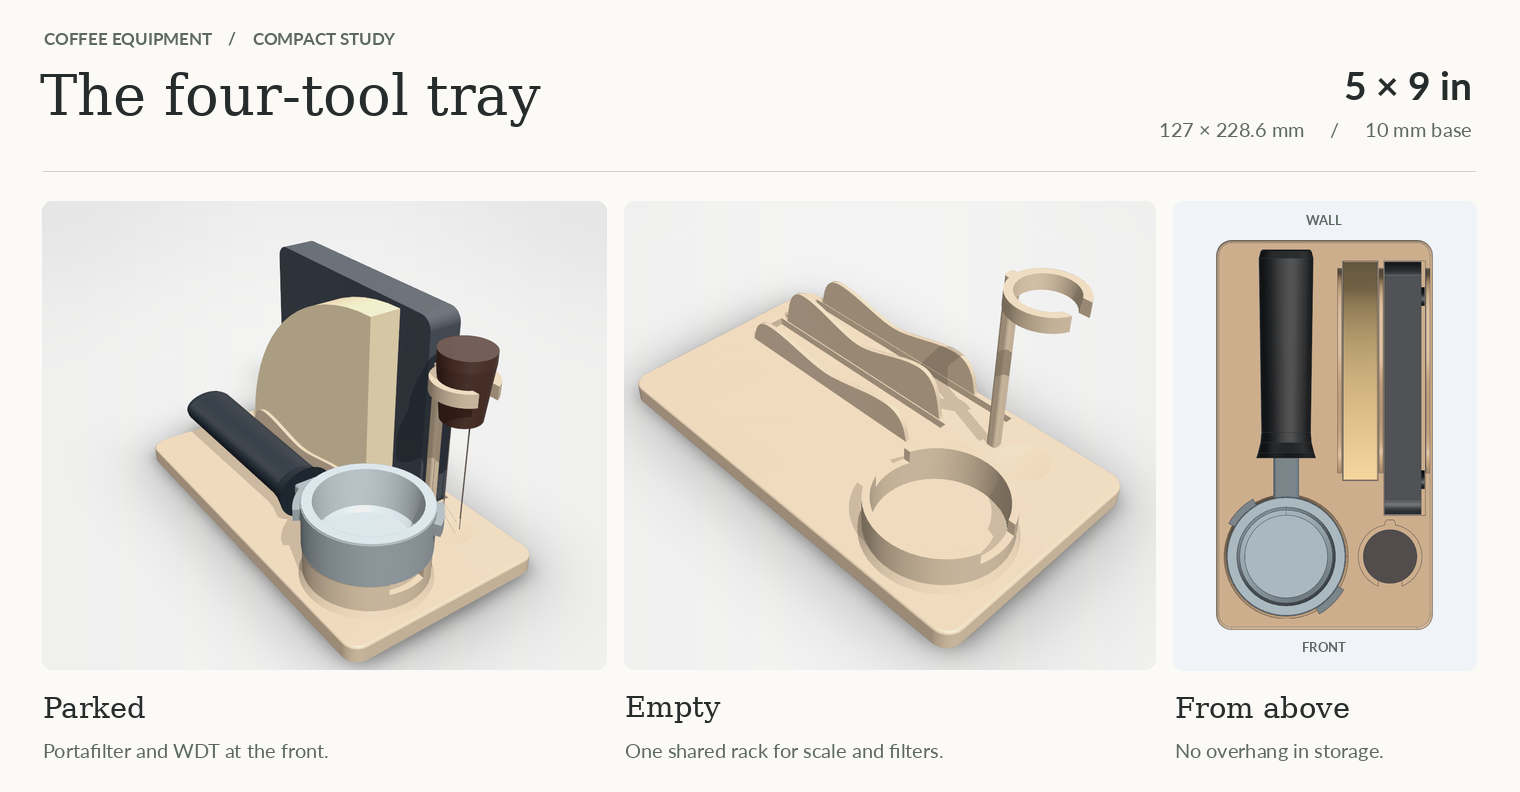
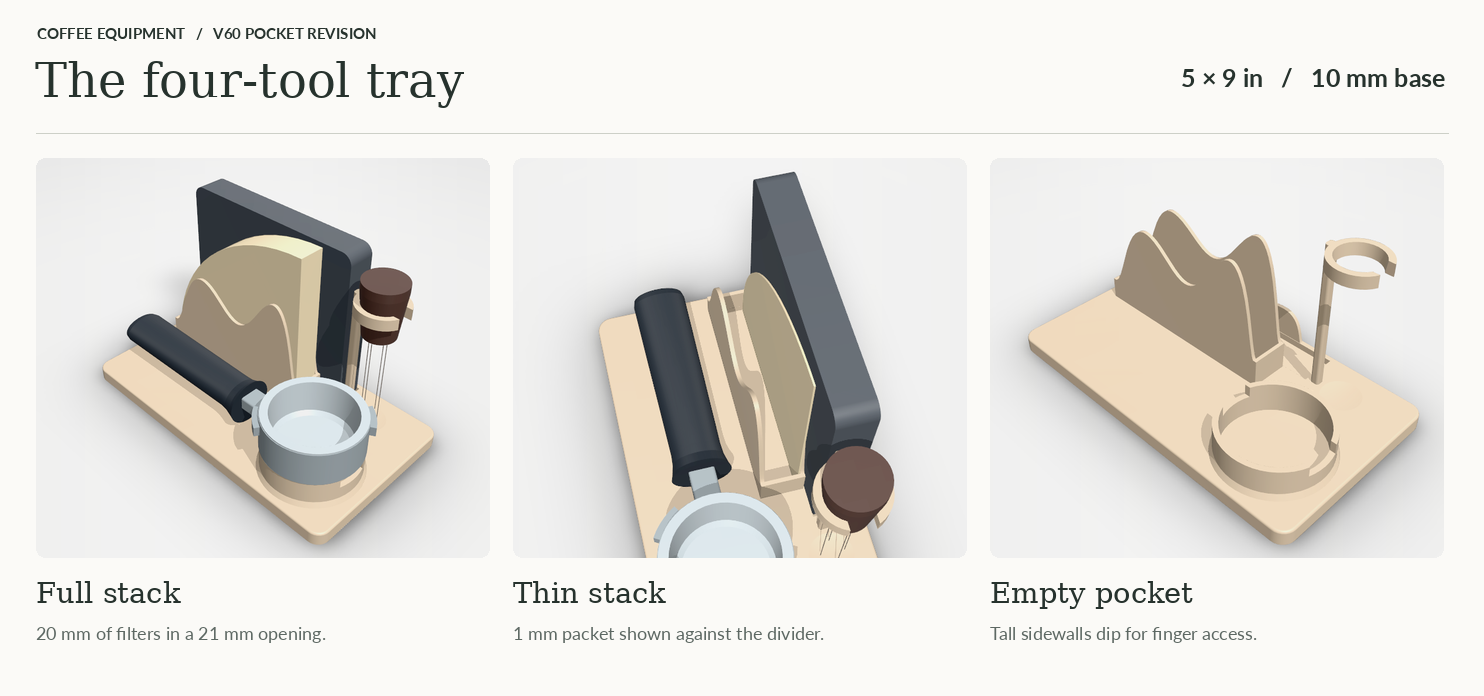
Deepen the V60 pocket to support partial filter stacks

diff --git a/src/coffee_tray/compact.py b/src/coffee_tray/compact.py
@@ -13,6 +13,9 @@ PF, WDT = (41, 43), (102, 43)
 REAR_LINE = 216.0  # common back line for scale and filter stack
 SCALE_X, PAPER_X = 110.5, 74.5  # scale center and paper stack left edge
 SIDE_GAP, SLOT_DEPTH = 0.5, 4.5
+WALL = 2.4
+PAPER_GUIDE_HEIGHTS = (80.0, 86.0)  # outer wall and shared divider, above deck
+PAPER_SCOOP = 46.0
 
 
 def _finish(part, name):
@@ -42,7 +45,7 @@ def deck():
 
 
 def _cheek(x, height):
-    """Open ends and a scooped upper edge. The middle divider serves both slots."""
+    """Original low outer guide for the scale."""
     start, end = 92, 212
     mid = (start + end) / 2
     with bd.BuildLine() as outline:
@@ -53,13 +56,48 @@ def _cheek(x, height):
         bd.Bezier((mid, height * 0.60), (mid - 13, height * 0.60),
                   (start + 30, height), (start + 16, height))
         bd.Bezier((start + 16, height), (start + 1, height), (start + 2, 3), (start, 0))
-    return bd.Pos(X=x) * (bd.Plane.YZ * bd.extrude(bd.Face(outline.wire()), amount=2.4))
+    return bd.Pos(X=x) * (bd.Plane.YZ * bd.extrude(bd.Face(outline.wire()), amount=WALL))
+
+
+def _paper_wall(x, crown, scoop):
+    """A high front shoulder, a finger scoop, then a lower shoulder under the arc."""
+    front = REAR_LINE - v60_filters.FILTER_RADIUS - SIDE_GAP
+    rear = REAR_LINE + SIDE_GAP
+    mid = front + 58
+    with bd.BuildLine() as outline:
+        bd.Polyline((front, 0), (rear, 0), (rear, 15))
+        bd.Bezier((rear, 15), (rear - 9, 17), (rear - 15, crown - 13),
+                  (rear - 34, crown - 13))
+        bd.Bezier((rear - 34, crown - 13), (rear - 48, crown - 13),
+                  (mid + 13, scoop), (mid, scoop))
+        bd.Bezier((mid, scoop), (mid - 16, scoop),
+                  (front + 33, crown), (front + 21, crown))
+        bd.Bezier((front + 21, crown), (front + 6, crown),
+                  (front + 4, 23), (front, 19))
+        bd.Line((front, 19), (front, 0))
+    return bd.Pos(X=x) * (bd.Plane.YZ * bd.extrude(bd.Face(outline.wire()), amount=WALL))
+
+
+def _paper_pocket():
+    left = PAPER_X - SIDE_GAP
+    clear_width = v60_filters.STACK_THICKNESS + 2 * SIDE_GAP
+    front = REAR_LINE - v60_filters.FILTER_RADIUS - SIDE_GAP
+    rear = REAR_LINE + SIDE_GAP
+    outer, divider = PAPER_GUIDE_HEIGHTS
+    sides = _paper_wall(left - WALL, outer, PAPER_SCOOP)
+    sides += _paper_wall(left + clear_width, divider, PAPER_SCOOP + 9)
+    # End stops connect both walls outside the clear opening; the deck is the floor.
+    for y, h in ((front - WALL, 19), (rear, 15)):
+        sides += bd.Pos(left - WALL, y, 0) * bd.Box(
+            clear_width + 2 * WALL, WALL, h, align=(bd.Align.MIN,) * 3
+        )
+    return sides
 
 
 @model
 def files():
-    rails = [_cheek(x, h) for x, h in ((71.2, 16), (95.5, 25), (123.0, 20))]
-    return _finish(bd.Compound(children=rails), "Shared file rack")
+    return _finish(bd.Compound(children=[_paper_pocket(), _cheek(123.0, 20)]),
+                   "Deep V60 pocket and scale guide")
 
 
 @model
@@ -102,6 +140,22 @@ def parked():
     return bd.Compound(label="Compact tray, parked", children=list(groups().values()))
 
 
+def thin_packet(right=False):
+    """Illustrative 1 mm remaining stack, against either wall; not sheet thickness."""
+    thin = v60_filters.stack_envelope(1.0)
+    x = (PAPER_X + v60_filters.STACK_THICKNESS + SIDE_GAP - 1.0
+         if right else PAPER_X - SIDE_GAP)
+    return (bd.Pos(x, REAR_LINE - v60_filters.FILTER_RADIUS, -SLOT_DEPTH)
+            * bd.Rot(Z=90) * bd.Rot(X=90) * thin)
+
+
+@model
+def nearly_empty():
+    pieces = groups()
+    pieces["papers"] = thin_packet(right=True)
+    return bd.Compound(label="Compact tray, nearly empty filter pocket", children=list(pieces.values()))
+
+
 @model
 def tamp():
     return bd.Compound(label="Compact tray, tamping", children=list(groups(True).values()))
@@ -110,4 +164,5 @@ def tamp():
 if __name__ == "__main__":
     empty()
     parked()
+    nearly_empty()
     tamp()

diff --git a/src/coffee_tray/check_compact.py b/src/coffee_tray/check_compact.py
@@ -1,9 +1,40 @@
 """Run with cad run -m coffee_tray.check_compact from src/."""
 
+import build123d as bd
+
 from coffee_tray.check_layout import check_groups
-from coffee_tray.compact import DEPTH, THICKNESS, WIDTH, groups
+from coffee_tray.compact import (
+    DEPTH, THICKNESS, WIDTH, PAPER_X, REAR_LINE, SIDE_GAP, SLOT_DEPTH,
+    groups, thin_packet,
+)
+from equipment.coffee.v60_filters import FILTER_RADIUS, STACK_THICKNESS
+
+
+def check_paper_pocket():
+    parts = groups()
+    full = parts.pop("papers")
+    # A rectangular keep-out conservatively contains every upright stack,
+    # including a single thin packet resting on either wall, throughout lift-out.
+    sweep = bd.Pos(PAPER_X - SIDE_GAP, REAR_LINE - FILTER_RADIUS, -SLOT_DEPTH) * bd.Box(
+        STACK_THICKNESS + 2 * SIDE_GAP, FILTER_RADIUS, 2 * FILTER_RADIUS,
+        align=(bd.Align.MIN,) * 3,
+    )
+    for name, part in parts.items():
+        for solid in part.solids():
+            common = sweep.intersect(solid)
+            assert not common or sum(s.volume for s in common.solids()) < 1e-4, name
+    assert len(parts["files"].solids()) == 2, "expect one joined paper pocket and one scale guide"
+    for stack in (thin_packet(), full, thin_packet(right=True)):
+        box, limits = stack.bounding_box(), sweep.bounding_box()
+        assert box.min.X >= limits.min.X - 1e-5 and box.max.X <= limits.max.X + 1e-5
+        assert stack.distance_to(parts["deck"]) < 1e-4
+    for side in (False, True):
+        assert thin_packet(side).distance_to(parts["files"]) < 1e-4
+    print("Filter pocket: full and 1 mm envelopes fit; thin packet reaches either wall; "
+          "straight lift clear with adjacent tools parked")
 
 
 if __name__ == "__main__":
     for tamping in (False, True):
         check_groups(groups(tamping), WIDTH, DEPTH, THICKNESS, tamping)
+    check_paper_pocket()

diff --git a/src/equipment/coffee/v60_filters.py b/src/equipment/coffee/v60_filters.py
@@ -8,18 +8,25 @@ FILTER_RADIUS = 128.0
 STACK_THICKNESS = 20.0
 
 
-@model
-def v60_filter_stack():
-    """Place the fold's right-angle corner at the origin, straight edges on +X/+Y."""
+def stack_envelope(thickness):
+    """Quarter-circle stack with a given thickness, straight edges on +X and +Y."""
+    if thickness <= 0:
+        raise ValueError("Stack thickness must be positive")
     stack = bd.Cylinder(
         radius=FILTER_RADIUS,
-        height=STACK_THICKNESS,
+        height=thickness,
         arc_size=90,
         align=(bd.Align.MIN, bd.Align.MIN, bd.Align.MIN),
     )
     stack.label = "Folded V60 filter stack"
     stack.color = "#dfcfae"
     return stack
+
+
+@model
+def v60_filter_stack():
+    """Owner-measured full stack, independent of the tray's fit allowance."""
+    return stack_envelope(STACK_THICKNESS)
 
 
 if __name__ == "__main__":

diff --git a/src/coffee_tray/README.md b/src/coffee_tray/README.md
@@ -8,13 +8,15 @@ The current tray holds four items: portafilter, WDT, scale and V60 filters. The 
 
 The [compact study](compact.py) measures **5 in across × 9 in front to back** (127 × 228.6 mm) and retains the **10 mm base**. It is 3 in narrower and 0.5 in shallower than the eight-item tray, about 41% less counter area. The grinder, crank, bottle, dosing ring and tamper cap have no holders or pockets in this version.
 
-![Compact tray with its four tools, empty fixtures, and storage plan](concepts/compact-four-tool-tray.png)
+![Compact tray with its revised V60 pocket: full stack, thin packet, and empty holder](concepts/compact-four-tool-tray.png)
 
-The portafilter seat and open WDT collar share one front centerline. The handle parks along the open left side. On the right, the papers and scale stand on edge against one shared divider, with their rear edges aligned. The longer scale extends 20.4 mm farther forward than the paper stack, leaving its end exposed. Three low, curved guides, a rounded deck edge and a single warm-stone preview color keep the parts visually related. The color is illustrative.
+The portafilter seat and open WDT collar share one front centerline. The handle parks along the open left side. On the right, the papers and scale stand on edge against one shared divider, with their rear edges aligned. The longer scale extends 20.4 mm farther forward than the paper stack, leaving its end exposed. The low outer scale guide, rounded deck edge and warm-stone preview color are unchanged.
+
+**Deep V60 pocket:** Thin stacks can lean against either side. The two paper walls now rise to 80 and 86 mm above the deck, up from 16 and 25 mm, without widening the 21 mm opening. The deck recess stays 4.5 mm deep. The near wall dips to 46 mm at the finger scoop so a small packet can be pinched from the side, and low end stops keep the papers from sliding lengthwise. The 1 mm packet is an illustrative near-empty condition, not a measured sheet thickness.
 
 The nominal holder allowances are 0.5 mm per face and the file slots are 4.5 mm deep, leaving 5.5 mm of deck below. The WDT hangs needles down, with the collar open toward the user. The portafilter keeps its two-way 20 mm head support. Its parked tip is 5.6 mm inside the rear edge; in the tamping pose it extends 137 mm (5.39 in) beyond the front. The deck itself never moves or changes size.
 
-Build from `src/` with `cad run -m coffee_tray.compact` (empty, parked and tamping views) and check with `cad run -m coffee_tray.check_compact`. Both seated poses were checked for inter-item intersections using the modeled solids. Actual needle spread, hand access, print fit and stability under tamping load are unverified. The deck and fixtures remain separate CAD bodies for iteration; this is not a production print file.
+Build from `src/` with `cad run -m coffee_tray.compact` (empty, full stack, nearly empty, and tamping views) and check with `cad run -m coffee_tray.check_compact`. Both seated poses are checked for inter-item intersections. The filter check places a rigid 1 mm packet against either wall and tests a vertical lift corridor spanning the whole opening with the other tools parked. Paper flex, actual needle spread, hand access, print fit and stability under tamping load are unverified. The deck and fixtures remain separate CAD bodies for iteration; this is not a production print file.
 
 ## Earlier eight-item layout
 
